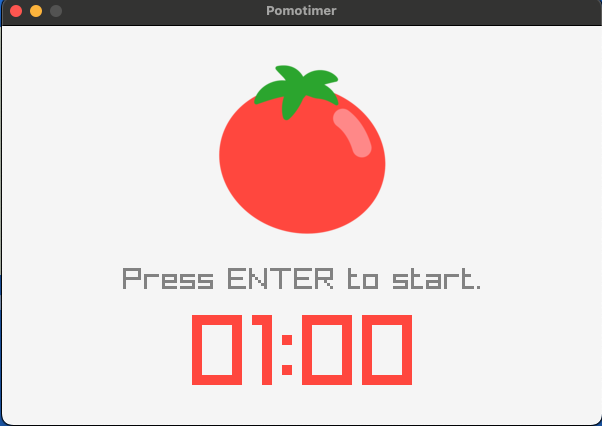
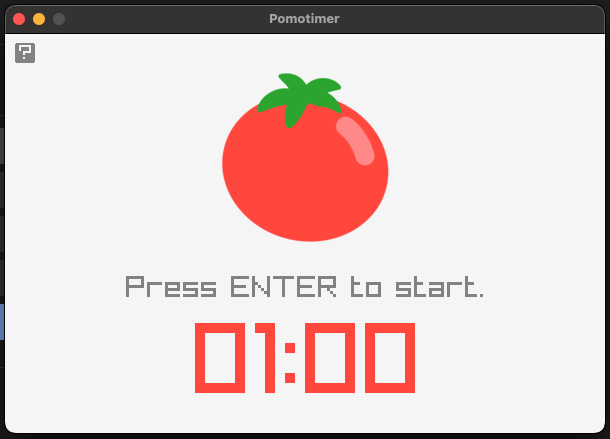
Adding help button.

diff --git a/ui_pomo.c b/ui_pomo.c
@@ -35,6 +35,8 @@ static void ui_draw(void);
 static void draw_minutes(void);
 static void draw_status_text(void);
 static void draw_pomo(void);
+static void draw_help_button(void);
+static void draw_help_message(void);
 static void ui_quit(void);
 static void ui_pomo_evt_cbk(const pomo_notif *notif);
 
@@ -148,6 +150,7 @@ static void ui_draw(void)
     draw_minutes();
     draw_status_text();
     draw_pomo();
+    draw_help_button();
 }
 
 static void draw_status_text(void)
@@ -186,6 +189,43 @@ static void draw_pomo(void)
 {
     int pos_x = UI_WINDOW_CENTER_X(UI_POMO_IMG_SIZE);
     DrawTexture(ui_ctx_.tomato, pos_x, 40u, WHITE);
+}
+
+static void draw_help_button(void)
+{
+    int width = MeasureText(UI_HELP_BUTTON_MSG, UI_HELP_BUTTON_FONT_SIZE);
+    int button_pos_y = UI_HELP_POPUP_PADDING;
+    int button_pos_x = UI_HELP_POPUP_PADDING;
+    Rectangle button = (Rectangle){
+        .height = UI_HELP_BUTTON_SIZE,
+        .width = UI_HELP_BUTTON_SIZE,
+        .y = button_pos_y,
+        .x = button_pos_x,
+    };
+    if (CheckCollisionPointRec(GetMousePosition(), button)) {
+        DrawRectangleRounded(button, 0.3, 8, ui_ctx_.tomato_color);
+        draw_help_message();
+    }
+    else {
+        DrawRectangleRounded(button, 0.3, 8, UI_HELP_BUTTON_COLOR);
+    }
+    DrawText(UI_HELP_BUTTON_MSG, button_pos_x + width / 2., button_pos_y,
+             UI_HELP_BUTTON_FONT_SIZE + 5, RAYWHITE);
+}
+
+static void draw_help_message(void)
+{
+    Rectangle poup_box = {
+        .height = UI_HELP_POP_HEIGHT,
+        .width = MeasureText(UI_HELP_MSG, UI_HELP_MSG_FONT_SIZE) +
+                 UI_HELP_MSG_PADDING,
+        .y = 2 * UI_HELP_POPUP_PADDING + UI_HELP_BUTTON_SIZE,
+        .x = UI_HELP_MSG_TEXT_PADDING,
+    };
+    DrawRectangleRounded(poup_box, 0.05, 8, UI_HELP_POPUP_COLOR);
+    DrawText(UI_HELP_MSG, poup_box.x + UI_HELP_MSG_TEXT_PADDING,
+             poup_box.y + UI_HELP_MSG_TEXT_PADDING, UI_HELP_MSG_FONT_SIZE,
+             UI_HELP_MSG_COLOR);
 }
 
 static void ui_pomo_evt_cbk(const pomo_notif *notif)

diff --git a/ui_pomo.h b/ui_pomo.h
@@ -1,19 +1,38 @@
 #ifndef UI_POMO_H
 #define UI_POMO_H
 
-#define UI_WIDTH           (600)
-#define UI_HEIGHT          (400)
-#define UI_FPS             (60)
-#define UI_CLOCK_FONT_SIZE (100)
-#define UI_MSG_FONT_SIZE   (30)
-#define UI_MSG_COLOR       (GRAY)
-#define UI_TITLE           ("Pomotimer")
-#define UI_WORK_MSG        ("Time to get to work!")
-#define UI_SHORT_BREAK_MSG ("Time for a short break")
-#define UI_LONG_BREAK_MSG  ("Time to relax!")
-#define UI_INIT_MSG        ("Press ENTER to start.")
-#define UI_UNKNOWN_MSG     ("?")
-#define UI_POMO_IMG_SIZE   (170u)
+#define UI_WIDTH                 (600)
+#define UI_HEIGHT                (400)
+#define UI_FPS                   (60)
+#define UI_CLOCK_FONT_SIZE       (100)
+#define UI_MSG_FONT_SIZE         (30)
+#define UI_MSG_COLOR             (GRAY)
+#define UI_TITLE                 ("Pomotimer")
+#define UI_WORK_MSG              ("Time to get to work!")
+#define UI_SHORT_BREAK_MSG       ("Time for a short break")
+#define UI_LONG_BREAK_MSG        ("Time to relax!")
+#define UI_INIT_MSG              ("Press ENTER to start.")
+#define UI_UNKNOWN_MSG           ("?")
+#define UI_POMO_IMG_SIZE         (170u)
+#define UI_HELP_MSG_PADDING      (30u)
+#define UI_HELP_POPUP_COLOR      (LIGHTGRAY)
+#define UI_HELP_MSG_COLOR        (RAYWHITE)
+#define UI_HELP_MSG_TEXT_PADDING (10u)
+#define UI_HELP_MSG_FONT_SIZE    (18)
+#define UI_HELP_BUTTON_FONT_SIZE (15)
+#define UI_HELP_POPUP_PADDING    (10u)
+#define UI_HELP_POP_HEIGHT       (190u)
+#define UI_HELP_BUTTON_SIZE      (20u)
+#define UI_HELP_BUTTON_MSG       ("?")
+#define UI_HELP_BUTTON_COLOR     (GRAY)
+#
+#define UI_HELP_MSG      \
+    ("- keys -\n\n"      \
+     "get to [w]ork\n\n" \
+     "[l]ong break\n\n"  \
+     "[s]hort break\n\n" \
+     "[space] pause\n\n" \
+     "[q]uit\n\n")
 
 void ui_init(void);
 
